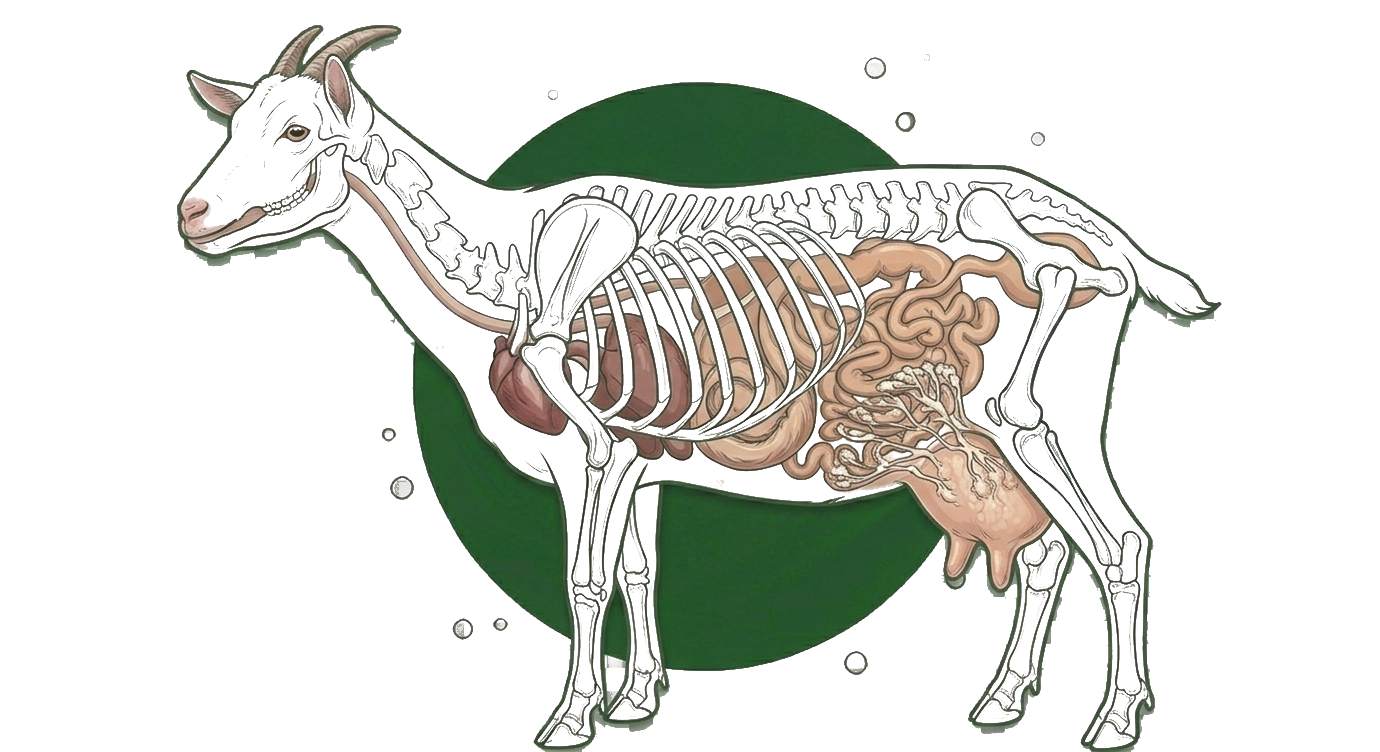
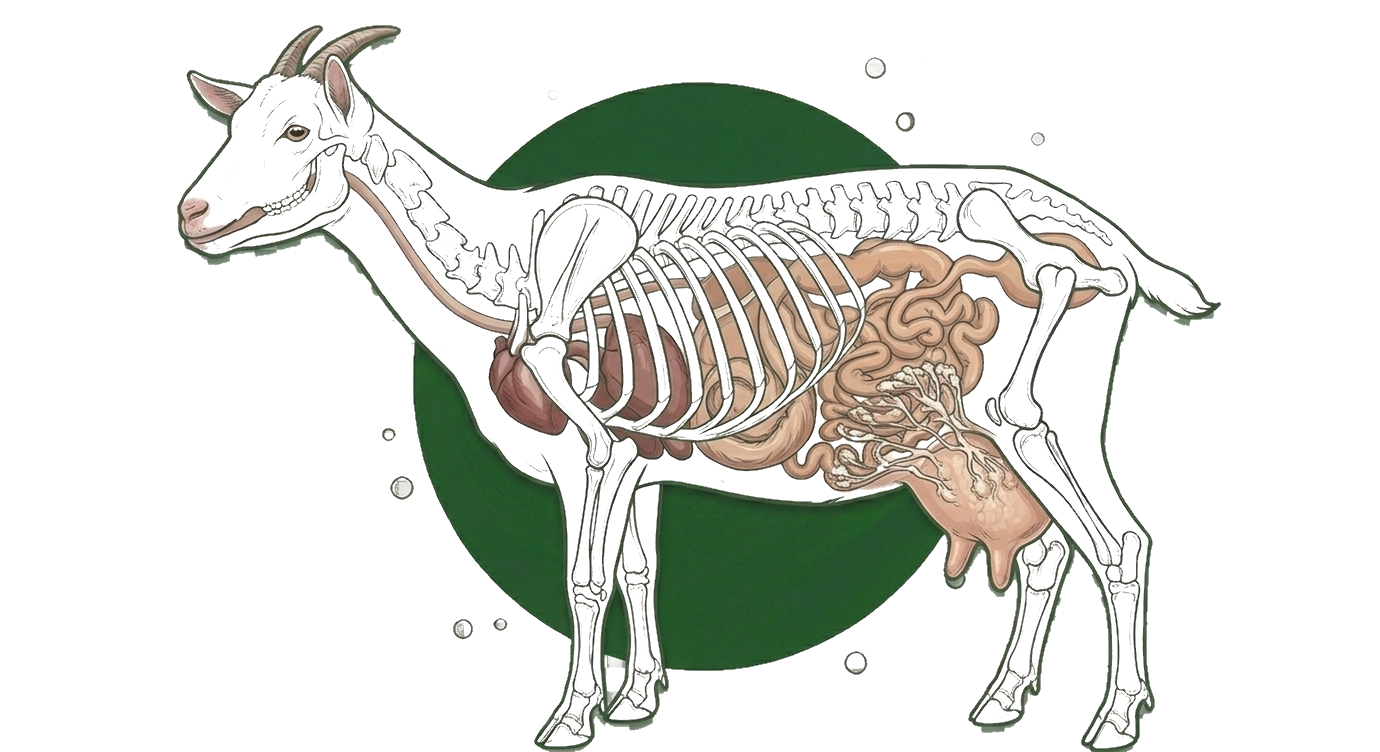
Species section: white background, remove illustration image backgrounds
- Section background changed from green to white
- Text colors updated for white bg (accent headers, dark text)
- Cards have subtle border and green-tinted hover shadow
- Removed backgrounds from all 5 species illustration PNGs via flood-fill

diff --git a/src/app/page.tsx b/src/app/page.tsx
@@ -212,18 +212,16 @@ export default function Home() {
       </section>
 
       {/* Species Section */}
-      <section className="py-20 px-4 bg-accent relative overflow-hidden">
-        <div className="absolute top-0 left-0 w-[40%] h-[50%] bg-gradient-to-br from-white/10 to-transparent rounded-br-[100px]" />
-        <div className="absolute bottom-0 right-0 w-[30%] h-[40%] bg-gradient-to-tl from-white/5 to-transparent rounded-tl-[80px]" />
+      <section className="py-20 px-4 bg-white relative overflow-hidden">
         <div className="relative max-w-[1200px] mx-auto">
           <div className="text-center mb-14">
             <div className="flex items-center justify-center gap-3 mb-4">
-              <div className="w-8 h-[3px] bg-white" />
-              <span className="text-white font-bold text-sm uppercase tracking-wider">Industry Solutions</span>
-              <div className="w-8 h-[3px] bg-white" />
+              <div className="w-8 h-[3px] bg-accent" />
+              <span className="text-accent font-bold text-sm uppercase tracking-wider">Industry Solutions</span>
+              <div className="w-8 h-[3px] bg-accent" />
             </div>
-            <h2 className="text-3xl md:text-[32px] font-bold text-white font-heading">Species We Serve</h2>
-            <p className="text-white/60 mt-3 max-w-xl mx-auto">
+            <h2 className="text-3xl md:text-[32px] font-bold font-heading">Species We Serve</h2>
+            <p className="text-body mt-3 max-w-xl mx-auto">
               Tailored nutritional programs backed by science for every species.
             </p>
           </div>
@@ -232,7 +230,7 @@ export default function Home() {
               <Link
                 key={s.slug}
                 href={`/species/${s.slug}`}
-                className="group bg-white rounded-lg overflow-hidden hover:-translate-y-1 hover:shadow-[0_12px_32px_rgba(0,0,0,0.25)] transition-all duration-300"
+                className="group bg-white border border-border rounded-lg overflow-hidden shadow-[0_2px_8px_rgba(0,0,0,0.06)] hover:-translate-y-1 hover:shadow-[0_8px_24px_rgba(46,125,50,0.15)] hover:border-accent/30 transition-all duration-300"
               >
                 {/* Image area */}
                 <div className="relative h-44 sm:h-48 bg-accent-50/50 flex items-center justify-center p-4 overflow-hidden">
